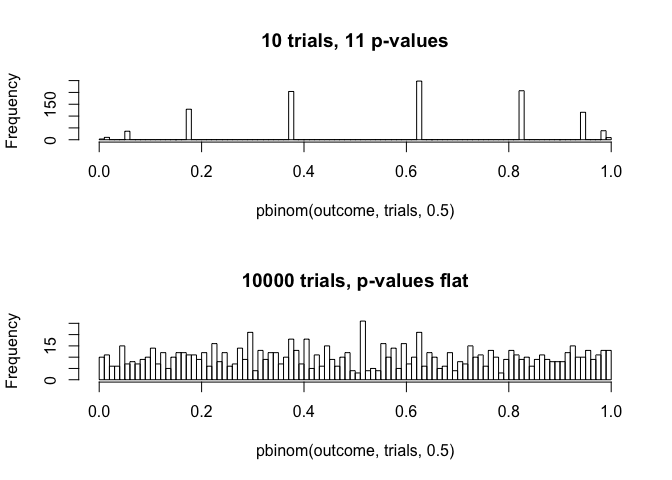
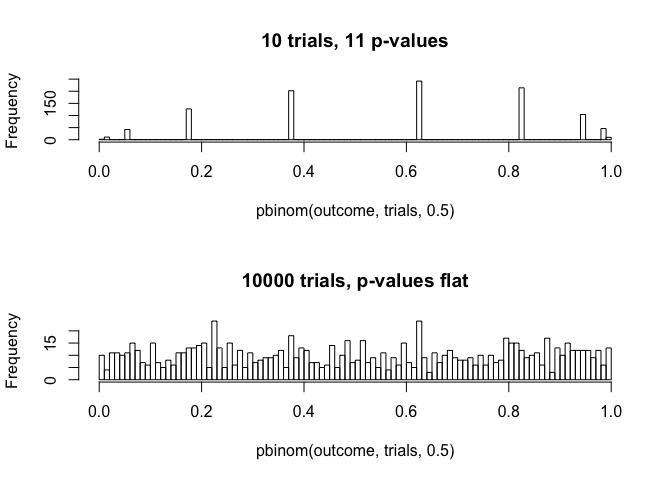
updates inference

diff --git a/CommentedCode/01-Principles/InferenceMethods.md b/CommentedCode/01-Principles/InferenceMethods.md
@@ -7,6 +7,7 @@ Assume we had 10 trials, 7 success, unknown coin, want to do inference to learn 
 
 ```r
 rm(list=ls(all=TRUE))
+set.seed(123)
 trials = 10
 success = 7
 ```
@@ -167,10 +168,10 @@ pValue
 ```
 
 ```
-##  [1] 0.0546875000 0.3769531250 0.6230468750 0.0546875000 0.0009765625
-##  [6] 0.3769531250 0.8281250000 0.1718750000 0.3769531250 0.3769531250
-## [11] 0.0546875000 0.1718750000 0.6230468750 0.3769531250 0.1718750000
-## [16] 0.1718750000 0.9453125000 0.6230468750 0.1718750000 0.3769531250
+##  [1] 0.62304687 0.17187500 0.37695313 0.05468750 0.05468750 0.94531250
+##  [7] 0.37695313 0.05468750 0.37695313 0.37695313 0.01074219 0.37695313
+## [13] 0.17187500 0.37695313 0.82812500 0.05468750 0.62304687 0.94531250
+## [19] 0.62304687 0.01074219
 ```
 
 ```r
@@ -187,10 +188,9 @@ pValueAdjusted
 ```
 
 ```
-##  [1] 0.92968750 0.94531250 0.94531250 0.92968750 0.01953125 0.94531250
-##  [7] 0.94531250 0.94531250 0.94531250 0.94531250 0.92968750 0.94531250
-## [13] 0.94531250 0.94531250 0.94531250 0.94531250 0.94531250 0.94531250
-## [19] 0.94531250 0.94531250
+##  [1] 0.9453125 0.9453125 0.9453125 0.8203125 0.8203125 0.9453125 0.9453125
+##  [8] 0.8203125 0.9453125 0.9453125 0.2041016 0.9453125 0.9453125 0.9453125
+## [15] 0.9453125 0.8203125 0.9453125 0.9453125 0.9453125 0.2041016
 ```
 
 ```r
@@ -198,7 +198,7 @@ max(pValueAdjusted < 0.05) == 1
 ```
 
 ```
-## [1] TRUE
+## [1] FALSE
 ```
 
 ## Long-term frequencies of errors 
@@ -232,7 +232,7 @@ sum(pbinom(outcome,trials,0.5) < 0.05)
 ```
 
 ```
-## [1] 48
+## [1] 46
 ```
 
 remember: in general, if you choose an alpha level of 5%, and you have absolutely random data, you should get 5% false positives (type I error) assymptotically, and the distribution of p-values in repeated experiments will be flat. 
